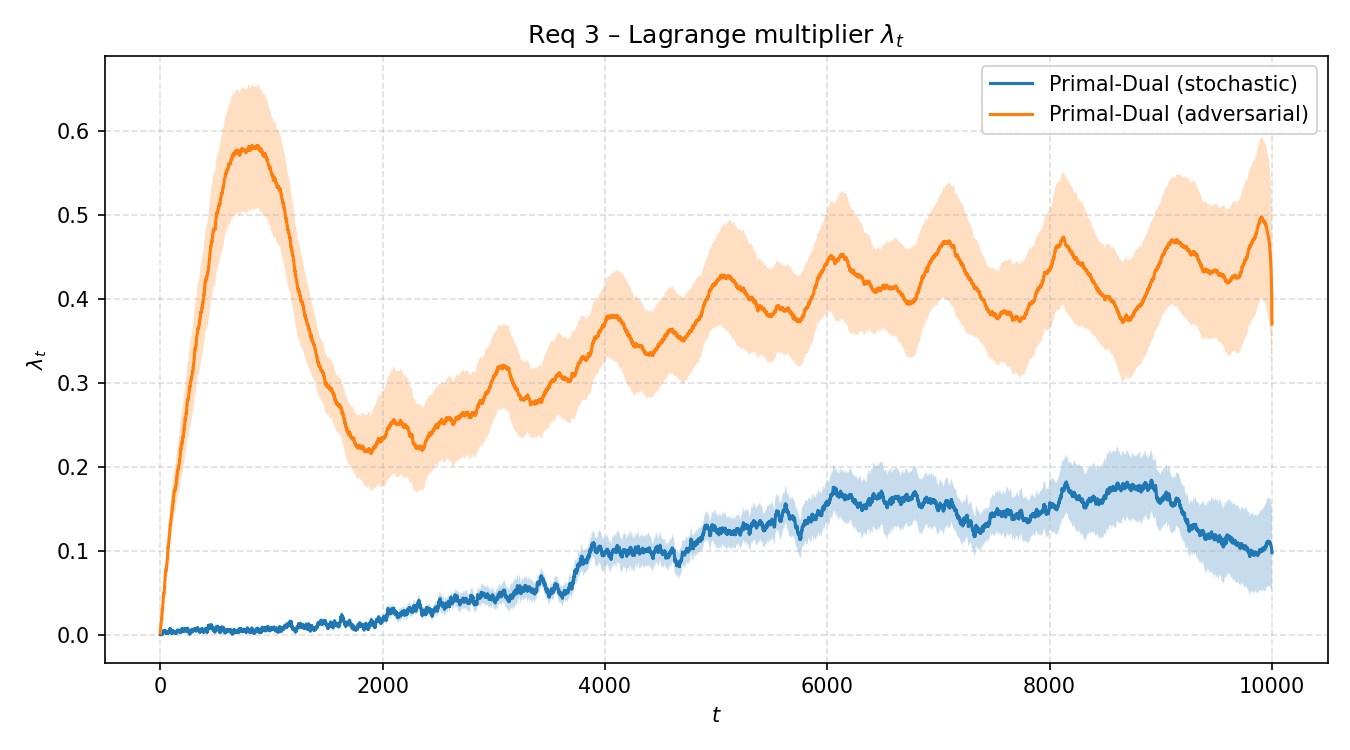
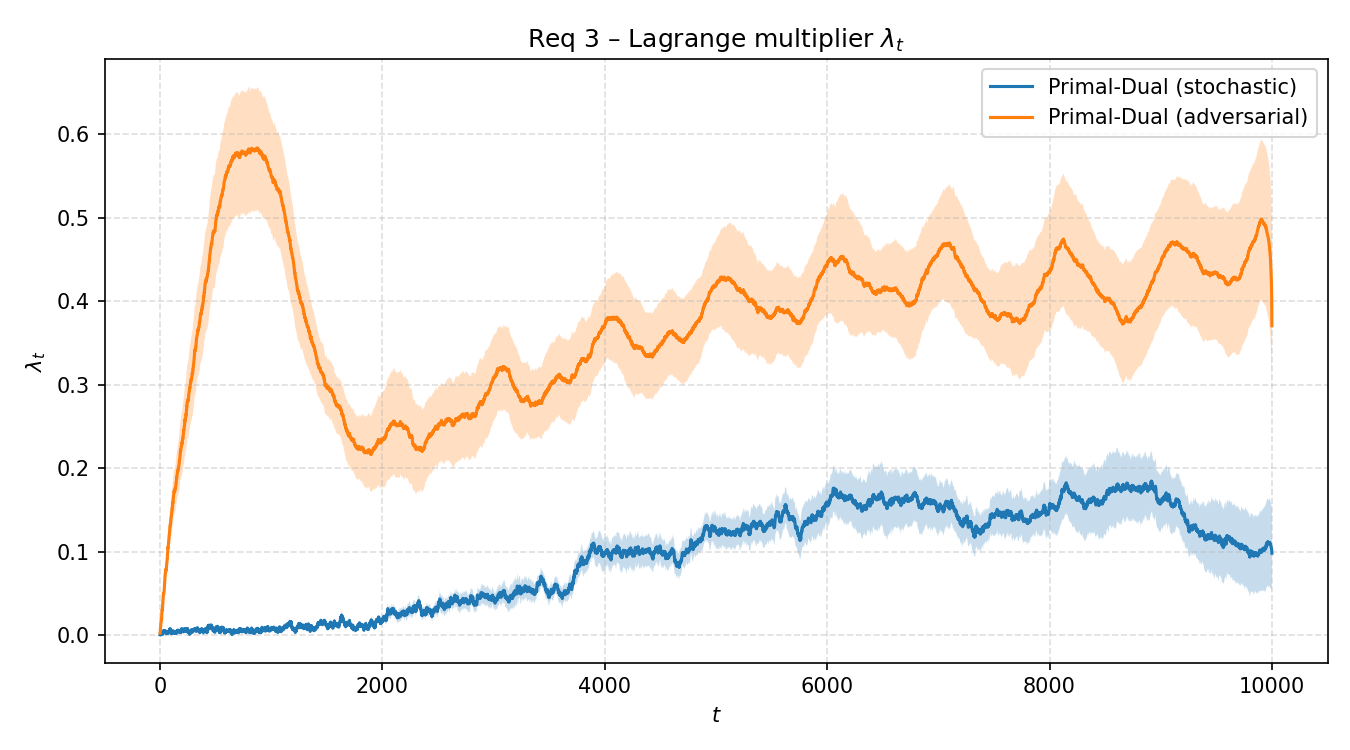
Refactor experiment plotting and remove annotated regret plot
- Added plt.show() to display the lambda plot after saving.
- Removed the annotated regret plot section from run_req3.py as it was deemed unnecessary.
- Updated the output files for budget, lambda, and regret plots.

diff --git a/utils/run_req3.py b/utils/run_req3.py
@@ -178,38 +178,6 @@ def run_req3():
     )
 
     # ─────────────────────────────────────────────────────────────────────
-    # Annotated regret: highlight that the SAME agent achieves sublinear
-    # regret in BOTH regimes.  This is the punchline of Requirement 3.
-    # ─────────────────────────────────────────────────────────────────────
-    fig, ax = plt.subplots(figsize=(9, 5))
-    ts = np.arange(1, T + 1)
-    for label, res, color in [
-        ("Stochastic",  res_stoch, "C0"),
-        ("Adversarial", res_adv,   "C1"),
-    ]:
-        mean   = res["mean_regret"]
-        stderr = res["std_regret"] / np.sqrt(res["n_trials"])
-        ax.plot(ts, mean, label=label, color=color)
-        ax.fill_between(ts, mean - stderr, mean + stderr, alpha=0.25, color=color)
-
-    # O(sqrt(T)) reference, scaled to the adversarial curve (the harder one)
-    ref = np.sqrt(ts)
-    ref = ref * (res_adv["mean_regret"][-1] / ref[-1])
-    ax.plot(ts, ref, "k--", linewidth=1.2, label=r"$O(\sqrt{T})$")
-
-    ax.set_xlabel("$t$")
-    ax.set_ylabel("Cumulative Pseudo-Regret")
-    ax.set_title("Req 3 – Best-of-both-worlds: same agent, two regimes")
-    ax.legend()
-    ax.grid(True, linestyle="--", alpha=0.4)
-    plt.tight_layout()
-    path = OUTPUTS_DIR / "r3" / "req3_regret_annotated.png"
-    plt.savefig(path, dpi=150)
-    logger.info("Saved annotated plot to %s", path)
-    plt.show()
-    plt.close()
-
-    # ─────────────────────────────────────────────────────────────────────
     # Final summary
     # ─────────────────────────────────────────────────────────────────────
     logger.info("=" * 60)

diff --git a/utils/experiments.py b/utils/experiments.py
@@ -870,6 +870,7 @@ def plot_lambda(results: dict, title: str = r"Lagrange multiplier $\lambda_t$", 
     path.parent.mkdir(parents=True, exist_ok=True)
     plt.savefig(path, dpi=150)
     logger.info("Saved plot to %s", path)
+    plt.show()
     plt.close()
 
 